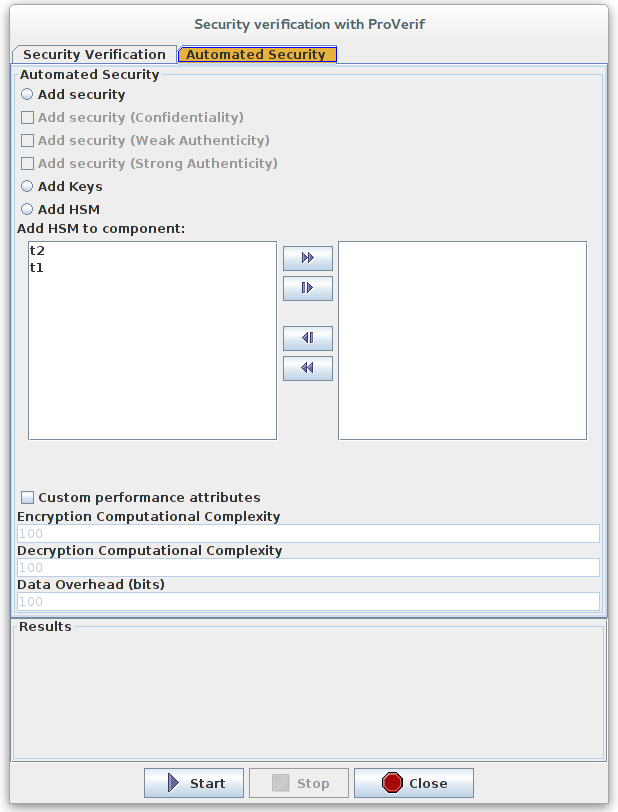
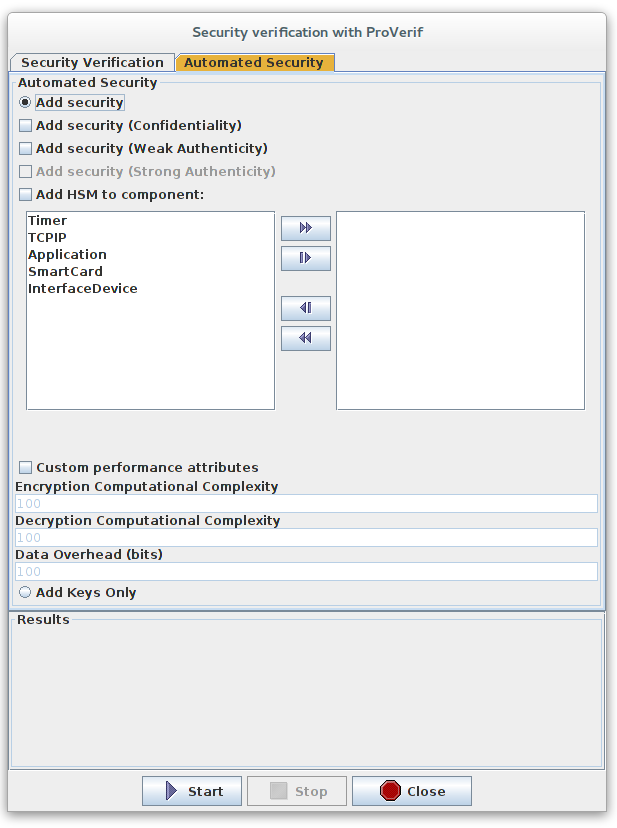
Updating sysml sec tutorial

Changed region(s): [[0.0, 0.0, 1.0, 1.0], [0.4311, 0.2463, 0.5543, 0.5234]]

diff --git a/doc/SysMLSec/sysmlsec_documentation.tex b/doc/SysMLSec/sysmlsec_documentation.tex
@@ -354,7 +354,7 @@ Without taking into account penalties of the hardware platform (e.g. cache miss,
 
 \subsection{Automatic Security Generation}
 
-Given security requirements and an unsecured model, our toolkit magically adds security elements. It can 1) add the security operators to a functional view, 2) Add an HSM performing all security operations, and 3) Automatically map keys securely. See the thesis of Letitia Li, `Safe and Secure Model-Driven Design for Embedded Systems' for the detailed algorithms on how to add security.
+Given security requirements and an unsecured model, our toolkit magically adds security elements. It can 1) add the security operators to a functional view, optionally with an added HSM performing all security operations, and 2) Automatically map keys securely. See the thesis of Letitia Li, `Safe and Secure Model-Driven Design for Embedded Systems' for the detailed algorithms on how to add security.
 
 \begin{figure*}[htbp]
 \centering
@@ -392,18 +392,23 @@ When the option to add security operators is selected, there are multiple option
 
 \subsubsection{Adding Hardware Security Modules} 
 
- After a designer models a system, our toolkit can automatically add
+For automatic security generation, there is also an option to add HSMs to perform all the security operators intead. 
+Our toolkit can automatically add
 HSMs to designated tasks, including making all of the modifications to the
 diagrams relating to sending the data to the HSM, generating the HSM's activity
 diagram, etc. A single Hardware Security Module is added to each processor which executes at least one of the designated tasks. If multiple tasks mapped to a single CPU are designated to have a HSM added to them, then only a single HSM will be added.
 
 For each HSM to be added to perform security operations for one or more tasks, first, the architectural diagram is modified to add a Hardware Accelerator and memory, with a connecting private bus.
 
-Next, each task is modified, so that before each instance of sending a message which should be secure, the task first sends the data to the HSM. The HSM then performs the security operations, and returns the secured message to the task, which then sends the secured message to the receiving task. When a task receives data to be decrypted, it similarly sends the messages to the HSM, which then decrypts it and sends the message back, and which point the receiving task can understand the contents of the message.
+Next, each task is modified, so that before each instance of sending a message which should be secure, the task first issues a request with the index of the channel (in the case of multiple channels to secure), and sends the data to the HSM. The HSM then performs the security operations, and returns the secured message to the task, which then sends the secured message to the receiving task. When a task receives data to be decrypted, it similarly sends the messages to the HSM, which then decrypts it and sends the message back, and which point the receiving task can understand the contents of the message.
+
+For example, using the model in our example, chose to ensure confidentiality, and add a HSM to each task. A new HSM task is added for each HSM in the Functional model as shown in Figure ??, and a secure bus, memory, and Hardware Accelerator are added for each CPU on the Architecture/Mapping model as shown in Figure ???. Figure ??? shows how the activity diagram of task t1 is modified to send communications to the HSM to be encrypted, and Figure ??? shows the activity diagram of the HSM. 
 
 \subsubsection{Mapping Keys}
 
 With multiple Cryptographic Configurations, it may become tedious to the map all of the keys to memory. Our toolkit therefore can find every Cryptographic Configuration used by a task, and then, depending on the type of the Cryptographic Configuration, map each applicable key to a memory that the task can securely access. For Cryptographic Configurations of type symmetric encryption or MAC, both the sending and receiving task will need to be able to access the key. For asymmetric encryption, however, all the sending tasks will need the public key while only the receiving task will need to access the private key. 
+
+At every security generation, keys are automatically generated and mapped securely. There is also the option to add keys alone after completing a design by hand.
 
 If a key is sent along a bus accessible to an attacker, then the key would be known to the attacker, so we wish to avoid sending keys along public buses. For each task which needs the key, the algorithm searches for securely accessible memories from the processor to which it is mapped. The algorithm traverses all possible private buses and bridges using breadth-first search, until it finds a memory. The key is then mapped to that memory. If all possible secure paths are searched and no memories are found, then a warning is issued saying it is impossible to map keys for that task.
 

diff --git a/src/main/java/tmltranslator/toavatar/TML2Avatar.java b/src/main/java/tmltranslator/toavatar/TML2Avatar.java
@@ -1217,10 +1217,15 @@ public class TML2Avatar {
                         AvatarAttribute data = new AvatarAttribute("encryptedKey_" + ae.securityPattern.key, AvatarType.INTEGER, block, null);
                         block.addAttribute(data);
                     } else {
-                        //send encrypted data
-                        as.addValue(ae.securityPattern.name + "_encrypted");
-                        AvatarAttribute data = new AvatarAttribute(ae.securityPattern.name + "_encrypted", AvatarType.INTEGER, block, null);
-                        block.addAttribute(data);
+                        //send encrypted data or unecrypted security pattern
+                        //
+                        //if (){
+                      //  }
+                      //  else {
+                        	as.addValue(ae.securityPattern.name + "_encrypted");
+                        	AvatarAttribute data = new AvatarAttribute(ae.securityPattern.name + "_encrypted", AvatarType.INTEGER, block, null);
+                        	block.addAttribute(data);
+                        
                         if (!secChannelMap.containsKey(ae.securityPattern.name)) {
                             List<String> tmp = new ArrayList<String>();
                             secChannelMap.put(ae.securityPattern.name, tmp);

diff --git a/src/main/java/ui/SecurityGeneration.java b/src/main/java/ui/SecurityGeneration.java
@@ -1375,6 +1375,19 @@ public class SecurityGeneration implements Runnable {
         TMLADStartState start = (TMLADStartState) tad.getComponentList().get(0);
         fromStart = new TGConnectorTMLAD(xpos, ypos, tad.getMinX(), tad.getMaxX(), tad.getMinY(), tad.getMaxY(), false, null, tad, null, null, new Vector<Point>());
 
+		if (hsmChannelMap.get(cpuName).size() ==0){
+			TMLADStopState stop = new TMLADStopState(100, 100, tad.getMinX(), tad.getMaxX(), tad.getMinY(), tad.getMaxY(), false, null, tad);
+            tad.addComponent(stop, 100, 100, false, true);
+
+
+			//Connect stop and start
+            fromStart = new TGConnectorTMLAD(xpos, ypos, tad.getMinX(), tad.getMaxX(), tad.getMinY(), tad.getMaxY(), false, null, tad, null, null, new Vector<Point>());
+            fromStart.setP1(start.getTGConnectingPointAtIndex(0));
+            fromStart.setP2(stop.getTGConnectingPointAtIndex(0));
+            tad.addComponent(fromStart, 100, 100, false, true);
+            return;
+		}
+
 
         TMLADReadRequestArg req = new TMLADReadRequestArg(300, 100, tad.getMinX(), tad.getMaxX(), tad.getMinY(), tad.getMaxY(), false, null, tad);
         tad.addComponent(req, 300, 100, false, true);

diff --git a/src/main/java/ui/GTURTLEModeling.java b/src/main/java/ui/GTURTLEModeling.java
@@ -1262,7 +1262,8 @@ public class GTURTLEModeling {
                             memNode.tdp.addComponent(key, memNode.x, memNode.y, true, true);
                             memNode.tdp.repaint();
                         } else {
-                            
+                             //
+                            mgui.issueError("Cannot map key in memory for " + sp.name + " on task " + t.getName(), "Key Mapping Error");
                             UICheckingError ce = new UICheckingError(CheckingError.STRUCTURE_ERROR, "Cannot map key in memory for " + sp.name + " on task " + t.getName());
                             ce.setTDiagramPanel(tmap.getCorrespondanceList().getTG(tmap.getArch().getFirstCPU()).getTDiagramPanel());
                             ce.setTGComponent(null);

diff --git a/src/main/java/ui/MainGUI.java b/src/main/java/ui/MainGUI.java
@@ -3496,6 +3496,13 @@ public class MainGUI implements ActionListener, WindowListener, KeyListener, Per
         return false;
     }
 
+	public void issueError(String error, String title){
+		JOptionPane.showMessageDialog(frame,
+                    error,
+                    title,
+                    JOptionPane.INFORMATION_MESSAGE);
+	}
+
     public boolean checkModelingSyntax(TURTLEPanel tp, boolean automatic) {
         //String msg = "";
         boolean b = false;
